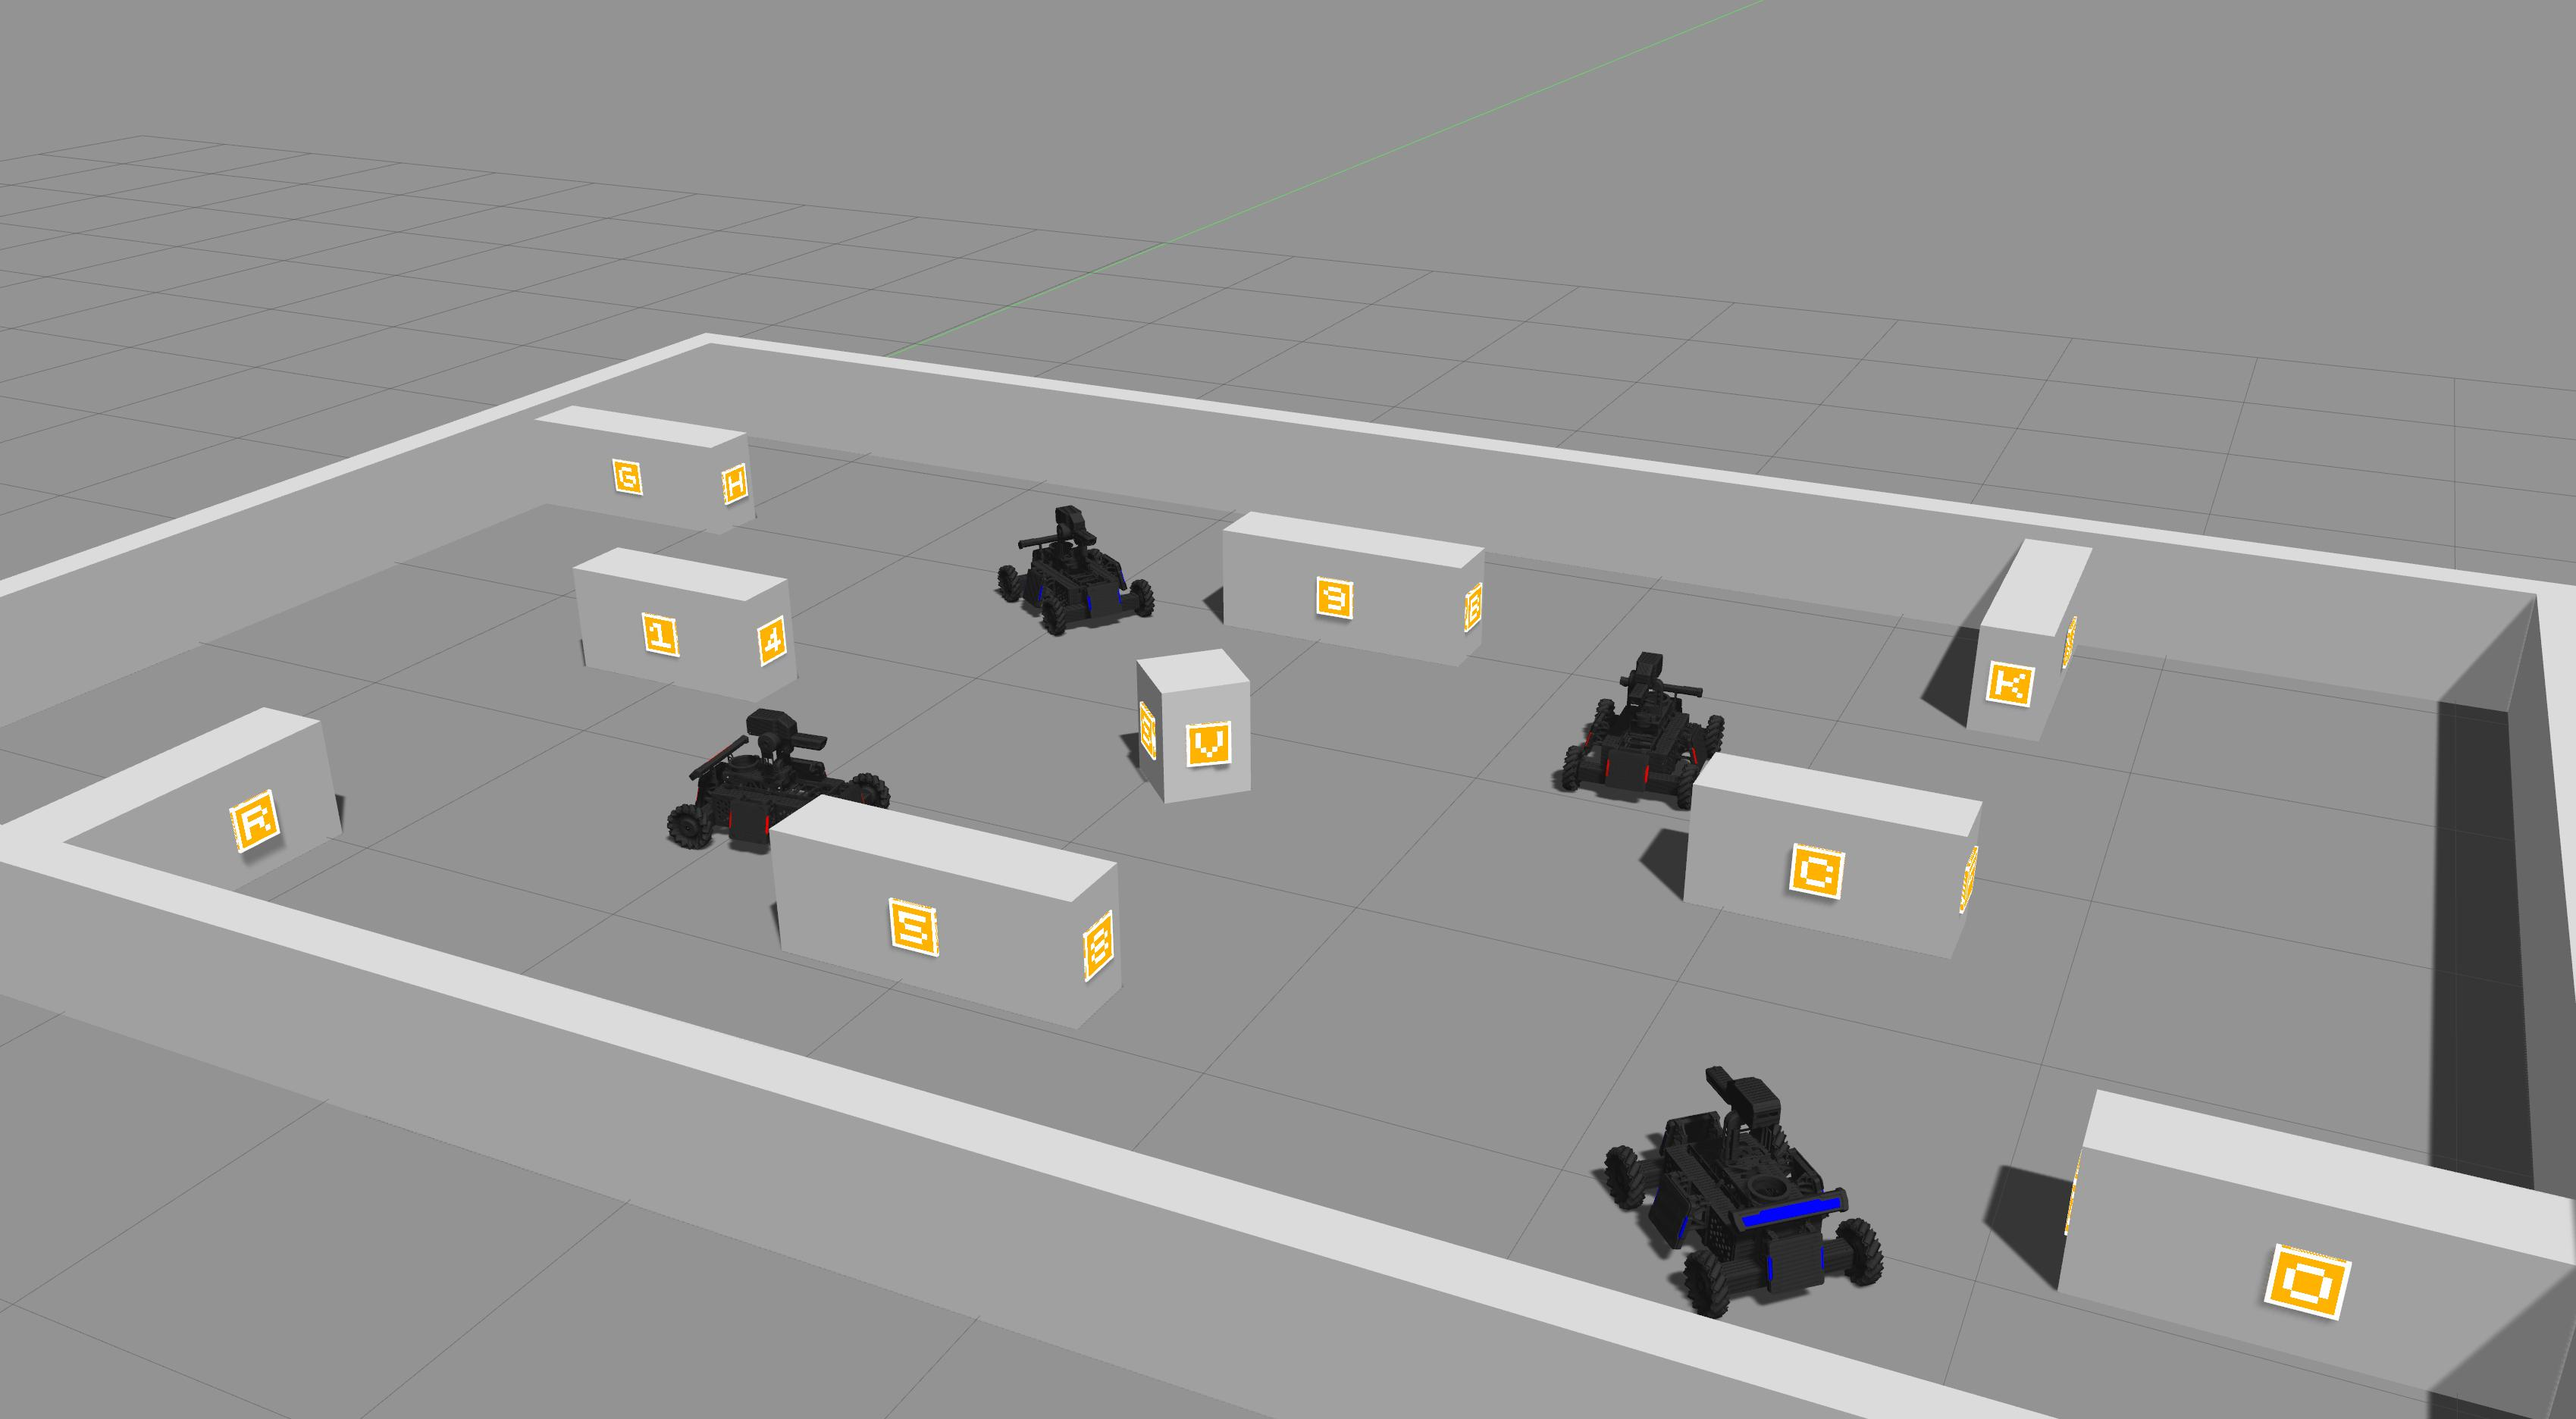
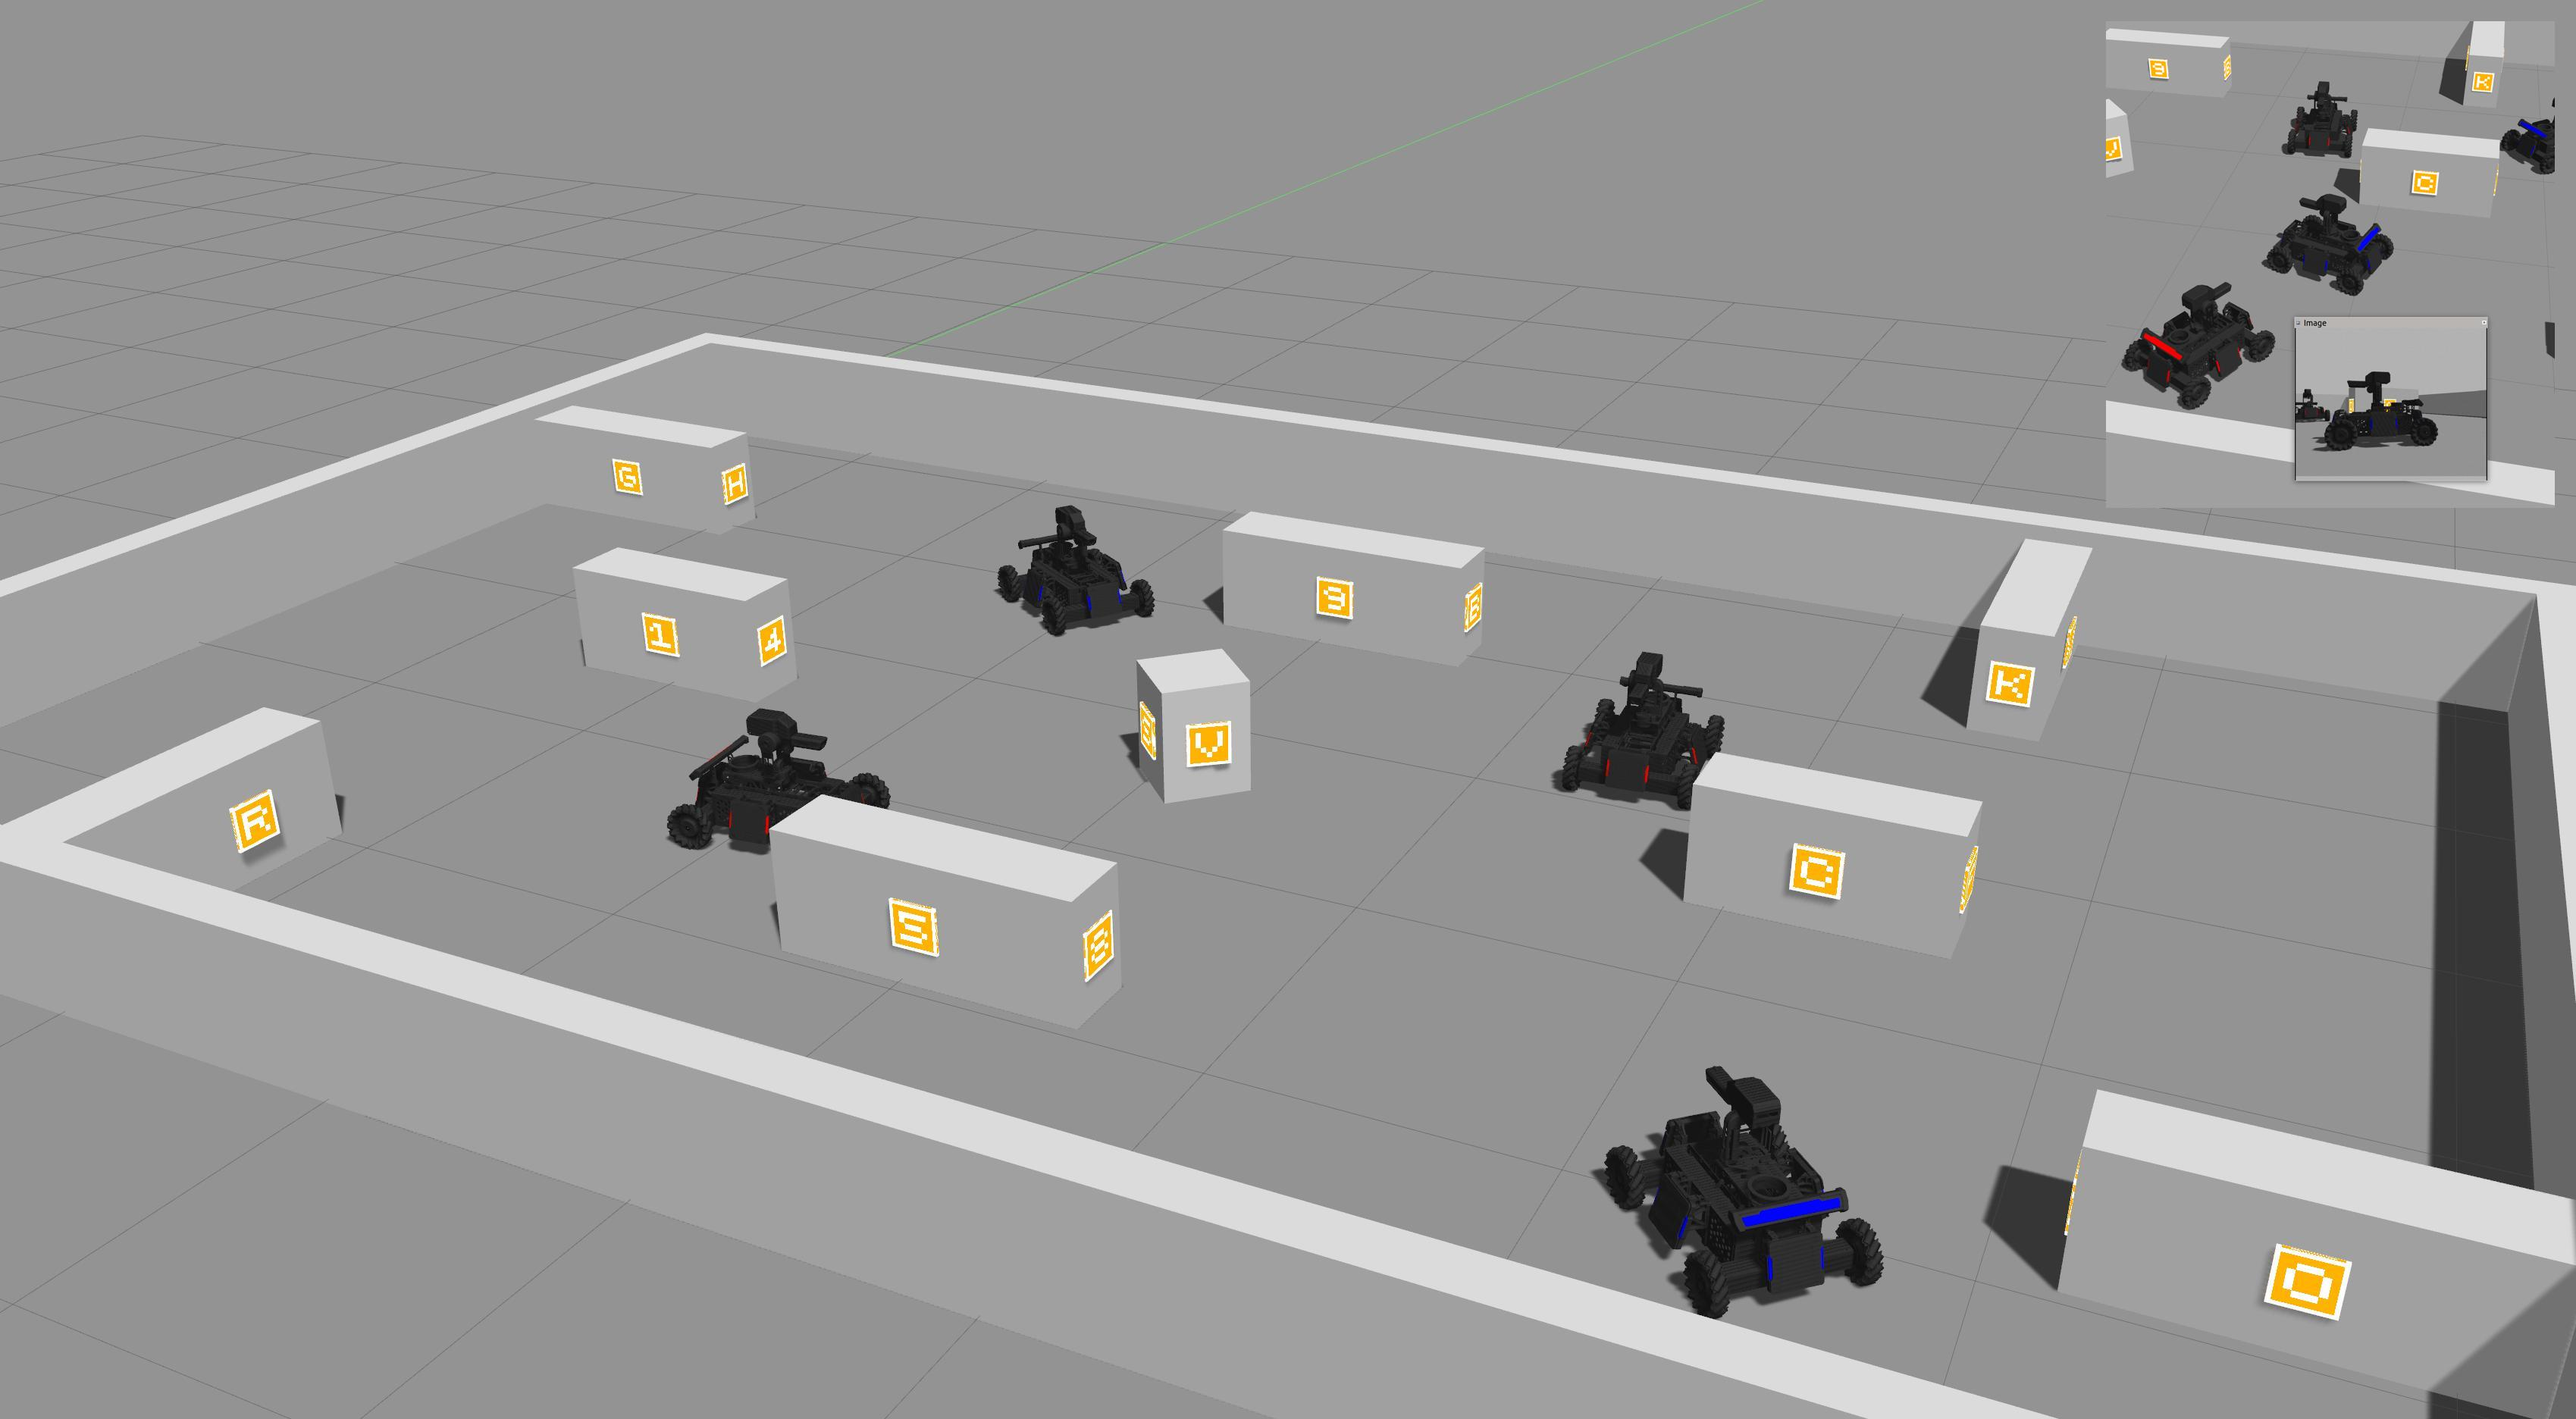
add preview image

Changed region(s): [[0.8111, 0.0, 0.9982, 0.3718], [0.8111, 0.0, 0.8735, 0.1239]]

diff --git a/README.md b/README.md
@@ -25,10 +25,8 @@ This repository contains:
     - also handle the shooting function(whether the robot shoot the enemy successfully).
 2. Connect gazebo with OpenAi gym framework by [openai_ros](http://wiki.ros.org/openai_ros) ROS package.
 
-## TODO
-2. [Run various Gazebo instances](https://answers.gazebosim.org//question/15897/how-to-open-several-gazebos-in-a-linux-operating-system/)
-4. Add stage simulator.
-
+## Preview
+![Arena](img/arena.jpg)
 
 ## Install
 ### Dependencies
@@ -132,6 +130,10 @@ Eg.
 ```
 rostopic pub /jackal0/debuff std_msgs/String "data: '0 1 1 0 1 1 1'"
 ```
+
+## TODO
+1. [Run various Gazebo instances](https://answers.gazebosim.org//question/15897/how-to-open-several-gazebos-in-a-linux-operating-system/)
+2. Add stage simulator.
 
 
 ## Maintainers
